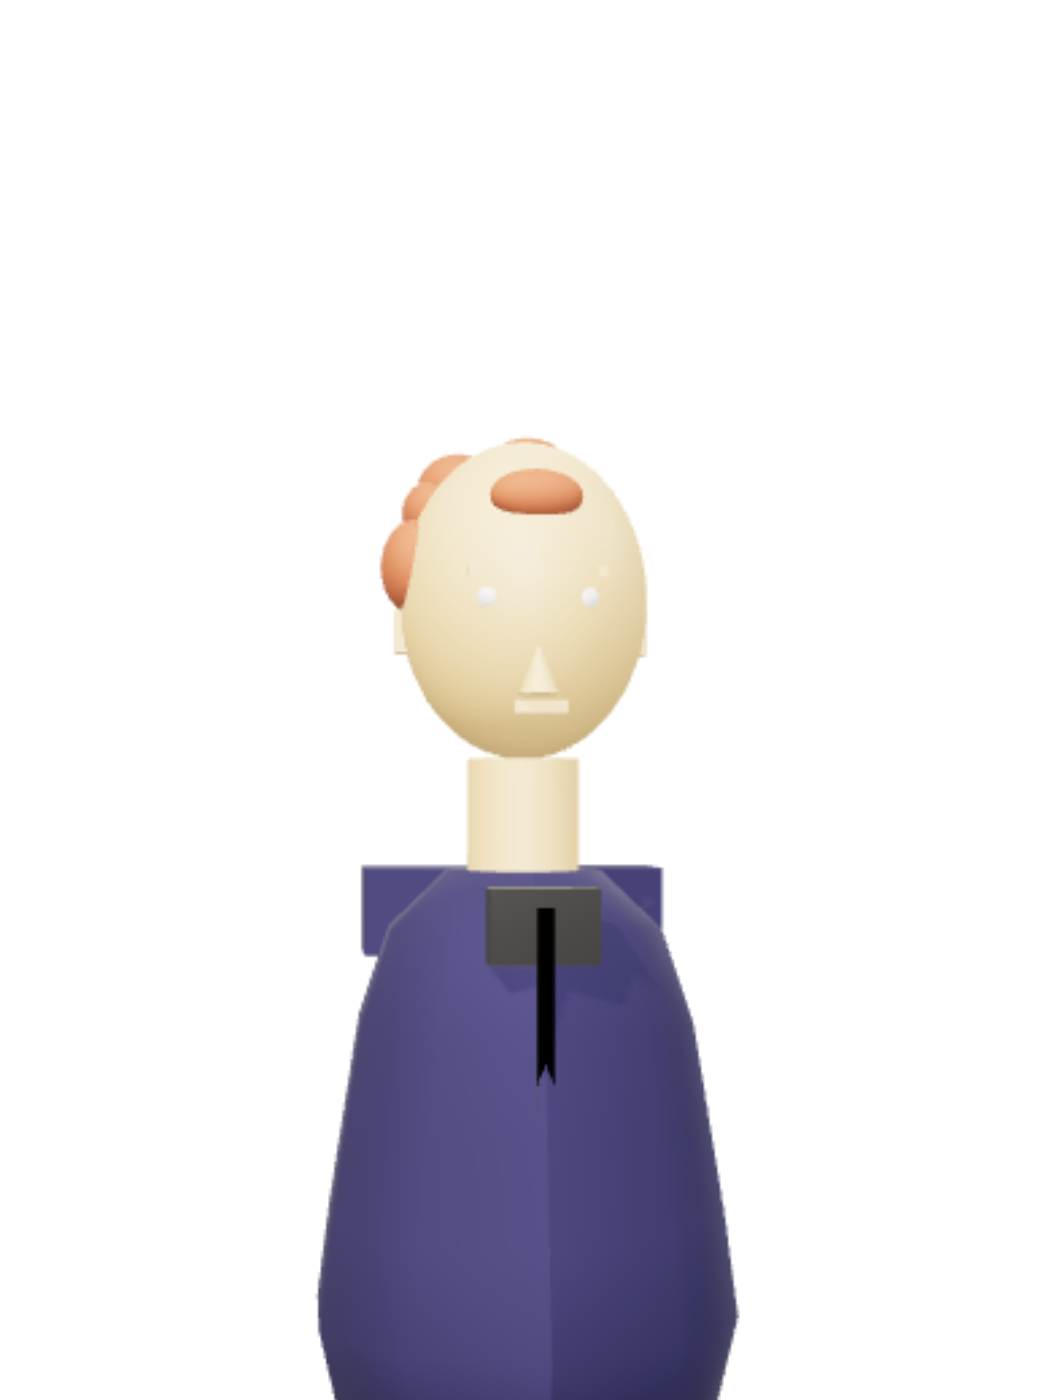
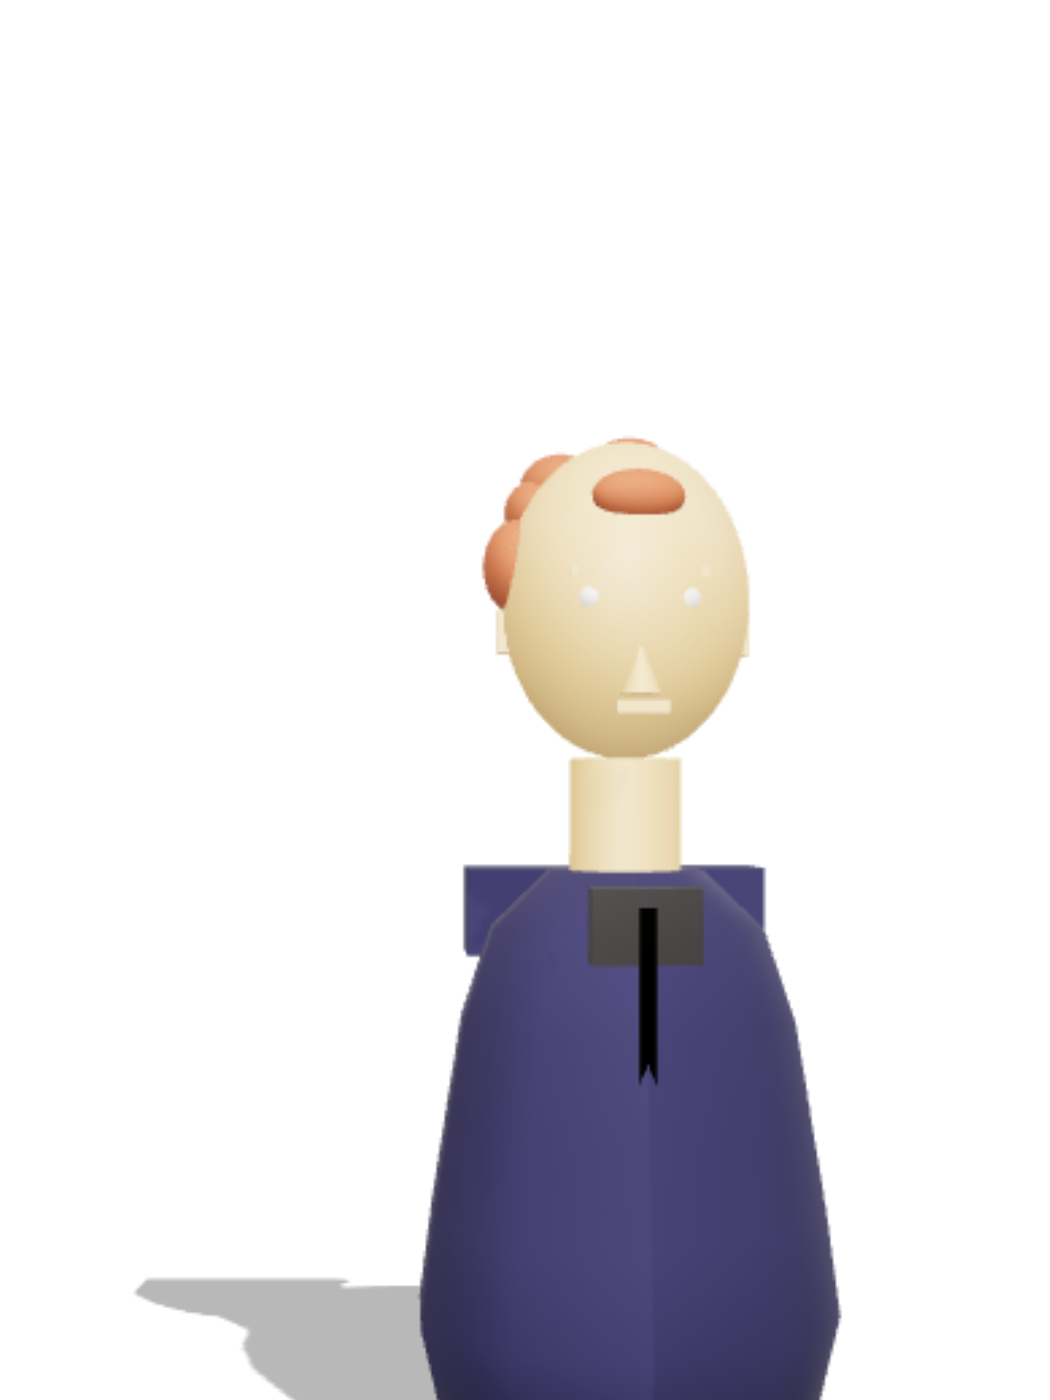
Aaron bust: lighting-pass -- site-matched key/fill/rim, real contact shadow
Replaced the generator's generic lookDev light preset with the site's own
key/fill/rim, matched exactly to the values already recorded in
lightingFromPhoto: amber key (echoes the hero's own lamp), indigo-tinted
ambient fill, amber rim. The bust is now lit by the same light the page's
own CSS light-cone glows from, not a separate studio setup grafted on.

Added a real contact shadow (a ShadowMaterial catcher plane under the
model, reading only real shadow-map occlusion) so it grounds into
whatever it's sitting on instead of reading as pasted over the scene.

Dialed the eye material's roughness 0.15 -> 0.3 -- under real directional
light (rather than the ambient-heavy generic preset) the lower value read
as a stray bright glow; still glossy enough to carry a catchlight per
reconstruction.md, without blowing out.

check_part_coverage stays clean (25/25) -- no geometry changed this pass.

Claude-Session: https://claude.ai/code/session_01Ppb29CiMMUyfw6pmkxurCT

Changed region(s): [[0.1219, 0.3071, 0.8229, 1.0]]

diff --git a/.img2threejs/createAaronBust.ts b/.img2threejs/createAaronBust.ts
@@ -729,7 +729,7 @@ export function createAaronFacetedBustModel(options: ProceduralModelOptions = {}
   );
   materialMap["eye"] = createSculptMaterial(
     "eye",
-    {"id": "eye", "name": "Eye (sclera + iris + catchlight)", "type": "standard", "shaderModel": "MeshStandardMaterial, flatShading:true", "baseColor": "#f3ece0", "color": "#f3ece0", "albedo": {"dominant": "#f3ece0", "secondary": [], "samplingNotes": "Color drawn from the site's own acetate-plane palette (app/app.css / scripts/generate-hero-planes.mjs), not the photo's literal color -- see objectClass.notes."}, "colorVariation": {"palette": ["#f3ece0"], "pattern": "none", "amplitude": 0.0, "heightCorrelation": 0.0}, "roughness": {"base": 0.15, "variation": 0.0, "map": "none", "localResponse": "none"}, "metalness": {"base": 0.0, "variation": 0.0}, "ambientOcclusion": {"cavityStrength": 0.0, "contactShadowBias": 0.0, "notes": "none -- flat faceted material"}, "wear": {"edgeWear": 0.0, "scratches": [], "chips": []}, "dirt": {"amount": 0.0, "cavityBias": 0.0, "color": "#000000"}, "localOverrides": [{"id": "catchlight", "region": "iris facet facing the key light", "effect": "small emissive-white facet, offset toward lightingFromPhoto's key direction", "evidenceRef": "faceplate-zone"}], "shaderNotes": ["flatShading:true is load-bearing -- the facets are the entire surface language.", "No texture maps of any kind; MeshStandardMaterial with a flat color + roughness/metalness only."], "notes": "Deliberately flat, no procedural surface texture: this is a faceted low-poly material -- shading variation comes from real-time lighting hitting flat per-face normals (flatShading:true), not from a painted macro/meso/micro noise stack. Matches the hero portrait's own flat acetate-plane treatment. Off-white sclera (site's --ink token) with a low roughness for the glossy-sphere-plus-catchlight treatment reconstruction.md calls for; iris/catchlight are separate small child meshes, not a texture.", "textureless": {"declared": true, "reason": "Deliberately flat, no procedural or reference texture of any kind -- this is a faceted low-poly material, shading comes from flatShading:true hitting real lights, not a synthesized texture map. This flag was described in every material's own notes field from the start but never actually set -- the real cause of every component rendering the same washed-white-under-warm-light tan instead of its declared baseColor.", "evidence": ["image-analysis.md Layer 5/6 (materials & surface, color & finish)", "objectClass.notes palette-lock decision"]}},
+    {"id": "eye", "name": "Eye (sclera + iris + catchlight)", "type": "standard", "shaderModel": "MeshStandardMaterial, flatShading:true", "baseColor": "#f3ece0", "color": "#f3ece0", "albedo": {"dominant": "#f3ece0", "secondary": [], "samplingNotes": "Color drawn from the site's own acetate-plane palette (app/app.css / scripts/generate-hero-planes.mjs), not the photo's literal color -- see objectClass.notes."}, "colorVariation": {"palette": ["#f3ece0"], "pattern": "none", "amplitude": 0.0, "heightCorrelation": 0.0}, "roughness": {"base": 0.3, "variation": 0.0, "map": "none", "localResponse": "none"}, "metalness": {"base": 0.0, "variation": 0.0}, "ambientOcclusion": {"cavityStrength": 0.0, "contactShadowBias": 0.0, "notes": "none -- flat faceted material"}, "wear": {"edgeWear": 0.0, "scratches": [], "chips": []}, "dirt": {"amount": 0.0, "cavityBias": 0.0, "color": "#000000"}, "localOverrides": [{"id": "catchlight", "region": "iris facet facing the key light", "effect": "small emissive-white facet, offset toward lightingFromPhoto's key direction", "evidenceRef": "faceplate-zone"}], "shaderNotes": ["flatShading:true is load-bearing -- the facets are the entire surface language.", "No texture maps of any kind; MeshStandardMaterial with a flat color + roughness/metalness only."], "notes": "Deliberately flat, no procedural surface texture: this is a faceted low-poly material -- shading variation comes from real-time lighting hitting flat per-face normals (flatShading:true), not from a painted macro/meso/micro noise stack. Matches the hero portrait's own flat acetate-plane treatment. Off-white sclera (site's --ink token) with a low roughness for the glossy-sphere-plus-catchlight treatment reconstruction.md calls for; iris/catchlight are separate small child meshes, not a texture. Roughness raised from an initial 0.15 to 0.3 after the real-lighting review showed the lower value reading as an overly bright glow under a strong key light -- still glossy enough to carry a catchlight, per reconstruction.md, just not blown out.", "textureless": {"declared": true, "reason": "Deliberately flat, no procedural or reference texture of any kind -- this is a faceted low-poly material, shading comes from flatShading:true hitting real lights, not a synthesized texture map. This flag was described in every material's own notes field from the start but never actually set -- the real cause of every component rendering the same washed-white-under-warm-light tan instead of its declared baseColor.", "evidence": ["image-analysis.md Layer 5/6 (materials & surface, color & finish)", "objectClass.notes palette-lock decision"]}},
     options
   );
   materialMap["hidden"] = createSculptMaterial(

diff --git a/app/three/createAaronBust.ts b/app/three/createAaronBust.ts
@@ -729,7 +729,7 @@ export function createAaronFacetedBustModel(options: ProceduralModelOptions = {}
   );
   materialMap["eye"] = createSculptMaterial(
     "eye",
-    {"id": "eye", "name": "Eye (sclera + iris + catchlight)", "type": "standard", "shaderModel": "MeshStandardMaterial, flatShading:true", "baseColor": "#f3ece0", "color": "#f3ece0", "albedo": {"dominant": "#f3ece0", "secondary": [], "samplingNotes": "Color drawn from the site's own acetate-plane palette (app/app.css / scripts/generate-hero-planes.mjs), not the photo's literal color -- see objectClass.notes."}, "colorVariation": {"palette": ["#f3ece0"], "pattern": "none", "amplitude": 0.0, "heightCorrelation": 0.0}, "roughness": {"base": 0.15, "variation": 0.0, "map": "none", "localResponse": "none"}, "metalness": {"base": 0.0, "variation": 0.0}, "ambientOcclusion": {"cavityStrength": 0.0, "contactShadowBias": 0.0, "notes": "none -- flat faceted material"}, "wear": {"edgeWear": 0.0, "scratches": [], "chips": []}, "dirt": {"amount": 0.0, "cavityBias": 0.0, "color": "#000000"}, "localOverrides": [{"id": "catchlight", "region": "iris facet facing the key light", "effect": "small emissive-white facet, offset toward lightingFromPhoto's key direction", "evidenceRef": "faceplate-zone"}], "shaderNotes": ["flatShading:true is load-bearing -- the facets are the entire surface language.", "No texture maps of any kind; MeshStandardMaterial with a flat color + roughness/metalness only."], "notes": "Deliberately flat, no procedural surface texture: this is a faceted low-poly material -- shading variation comes from real-time lighting hitting flat per-face normals (flatShading:true), not from a painted macro/meso/micro noise stack. Matches the hero portrait's own flat acetate-plane treatment. Off-white sclera (site's --ink token) with a low roughness for the glossy-sphere-plus-catchlight treatment reconstruction.md calls for; iris/catchlight are separate small child meshes, not a texture.", "textureless": {"declared": true, "reason": "Deliberately flat, no procedural or reference texture of any kind -- this is a faceted low-poly material, shading comes from flatShading:true hitting real lights, not a synthesized texture map. This flag was described in every material's own notes field from the start but never actually set -- the real cause of every component rendering the same washed-white-under-warm-light tan instead of its declared baseColor.", "evidence": ["image-analysis.md Layer 5/6 (materials & surface, color & finish)", "objectClass.notes palette-lock decision"]}},
+    {"id": "eye", "name": "Eye (sclera + iris + catchlight)", "type": "standard", "shaderModel": "MeshStandardMaterial, flatShading:true", "baseColor": "#f3ece0", "color": "#f3ece0", "albedo": {"dominant": "#f3ece0", "secondary": [], "samplingNotes": "Color drawn from the site's own acetate-plane palette (app/app.css / scripts/generate-hero-planes.mjs), not the photo's literal color -- see objectClass.notes."}, "colorVariation": {"palette": ["#f3ece0"], "pattern": "none", "amplitude": 0.0, "heightCorrelation": 0.0}, "roughness": {"base": 0.3, "variation": 0.0, "map": "none", "localResponse": "none"}, "metalness": {"base": 0.0, "variation": 0.0}, "ambientOcclusion": {"cavityStrength": 0.0, "contactShadowBias": 0.0, "notes": "none -- flat faceted material"}, "wear": {"edgeWear": 0.0, "scratches": [], "chips": []}, "dirt": {"amount": 0.0, "cavityBias": 0.0, "color": "#000000"}, "localOverrides": [{"id": "catchlight", "region": "iris facet facing the key light", "effect": "small emissive-white facet, offset toward lightingFromPhoto's key direction", "evidenceRef": "faceplate-zone"}], "shaderNotes": ["flatShading:true is load-bearing -- the facets are the entire surface language.", "No texture maps of any kind; MeshStandardMaterial with a flat color + roughness/metalness only."], "notes": "Deliberately flat, no procedural surface texture: this is a faceted low-poly material -- shading variation comes from real-time lighting hitting flat per-face normals (flatShading:true), not from a painted macro/meso/micro noise stack. Matches the hero portrait's own flat acetate-plane treatment. Off-white sclera (site's --ink token) with a low roughness for the glossy-sphere-plus-catchlight treatment reconstruction.md calls for; iris/catchlight are separate small child meshes, not a texture. Roughness raised from an initial 0.15 to 0.3 after the real-lighting review showed the lower value reading as an overly bright glow under a strong key light -- still glossy enough to carry a catchlight, per reconstruction.md, just not blown out.", "textureless": {"declared": true, "reason": "Deliberately flat, no procedural or reference texture of any kind -- this is a faceted low-poly material, shading comes from flatShading:true hitting real lights, not a synthesized texture map. This flag was described in every material's own notes field from the start but never actually set -- the real cause of every component rendering the same washed-white-under-warm-light tan instead of its declared baseColor.", "evidence": ["image-analysis.md Layer 5/6 (materials & surface, color & finish)", "objectClass.notes palette-lock decision"]}},
     options
   );
   materialMap["hidden"] = createSculptMaterial(

diff --git a/app/components/AaronBust3D.tsx b/app/components/AaronBust3D.tsx
@@ -2,7 +2,6 @@ import { useEffect, useRef } from "react";
 import * as THREE from "three";
 import {
   createAaronFacetedBustModel,
-  createAaronFacetedBustLookDevLights,
   createAaronFacetedBustEnvironment,
   frameAaronFacetedBustCamera,
   configureAaronFacetedBustRenderer,
@@ -72,11 +71,41 @@ export function AaronBust3D() {
       };
     }
 
-    const lights = createAaronFacetedBustLookDevLights("neutral");
-    scene.add(lights);
+    // The site's own key/fill/rim, not the generator's generic lookDev
+    // preset -- values match .img2threejs/object-sculpt-spec.json's
+    // lightingFromPhoto exactly, so the bust is lit by the same lamp the
+    // hero's own light-cone glows from, not a separate studio setup.
+    const key = new THREE.DirectionalLight(0xf3ece0, 1.4);
+    key.position.set(0.5, 0.8, 0.6);
+    key.castShadow = true;
+    key.shadow.mapSize.set(1024, 1024);
+    key.shadow.bias = -0.0005;
+    scene.add(key);
+
+    const fill = new THREE.AmbientLight(0x2a264a, 0.35);
+    scene.add(fill);
+
+    const rim = new THREE.DirectionalLight(0xe8bc78, 0.6);
+    rim.position.set(-0.6, 0.5, -0.4);
+    scene.add(rim);
+
     scene.environment = createAaronFacetedBustEnvironment(renderer);
 
     frameAaronFacetedBustCamera(camera, model, { margin: 1.35, elevationDeg: 4 });
+
+    // A real contact shadow (ShadowMaterial reads only the shadow-map
+    // occlusion, so the plane itself stays invisible against the
+    // transparent canvas) -- grounds the bust in whatever it's sitting on
+    // instead of it reading as pasted over the scene.
+    const groundBox = new THREE.Box3().setFromObject(model);
+    const shadowCatcher = new THREE.Mesh(
+      new THREE.PlaneGeometry(4, 4),
+      new THREE.ShadowMaterial({ opacity: 0.28 }),
+    );
+    shadowCatcher.rotation.x = -Math.PI / 2;
+    shadowCatcher.position.y = groundBox.min.y;
+    shadowCatcher.receiveShadow = true;
+    scene.add(shadowCatcher);
 
     const controls = createAaronFacetedBustInspectControls(camera, renderer.domElement);
     controls.target.set(0, 0.45, 0);
@@ -122,6 +151,8 @@ export function AaronBust3D() {
       controls.dispose();
       renderer.dispose();
       scene.environment?.dispose();
+      shadowCatcher.geometry.dispose();
+      (shadowCatcher.material as THREE.Material).dispose();
       model.traverse((obj) => {
         if (obj instanceof THREE.Mesh) {
           obj.geometry.dispose();
